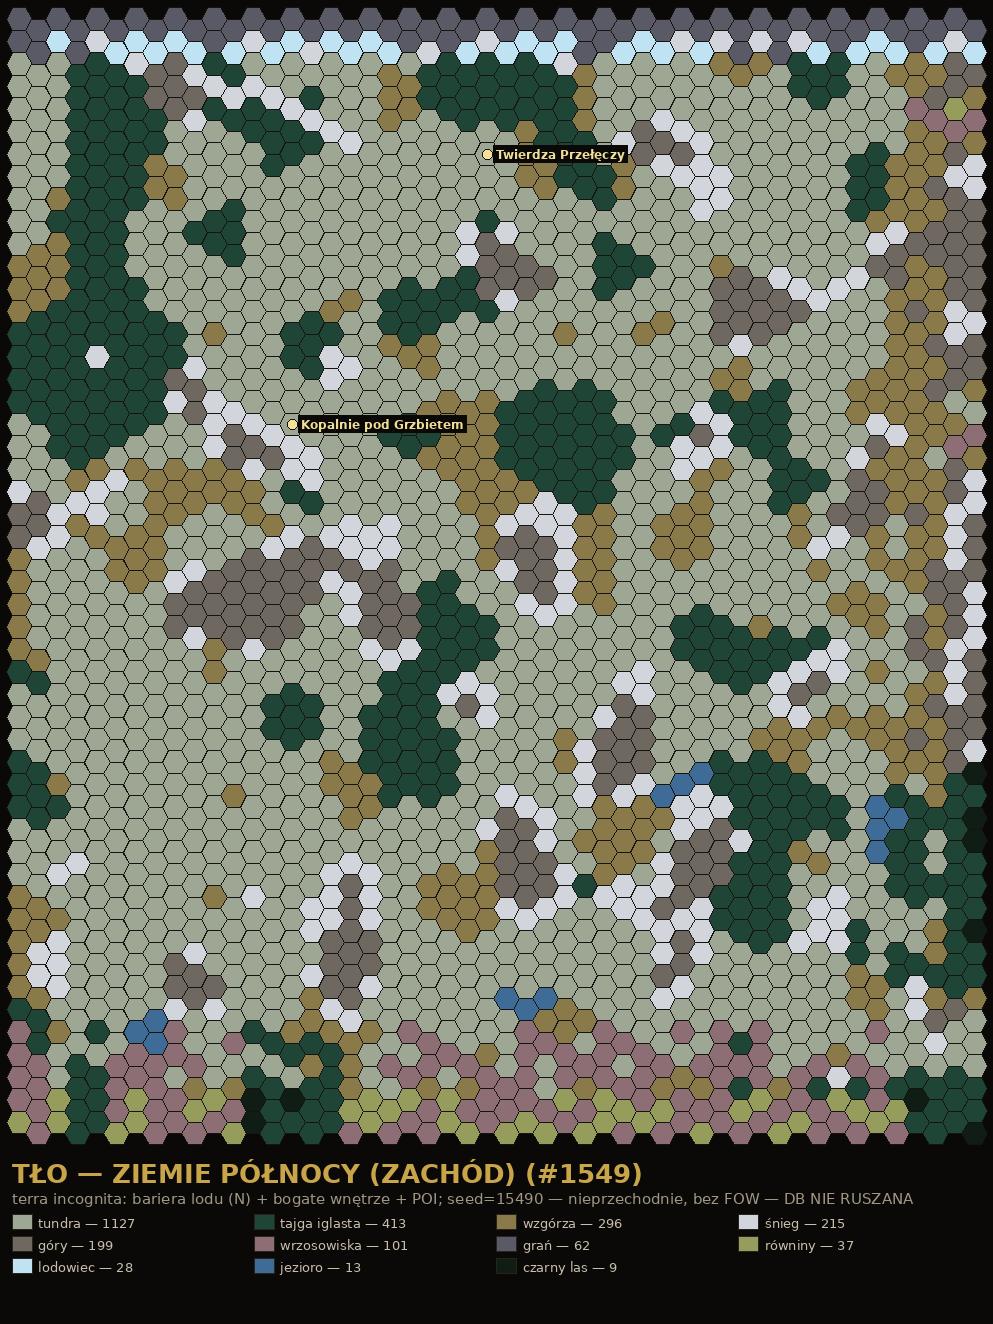
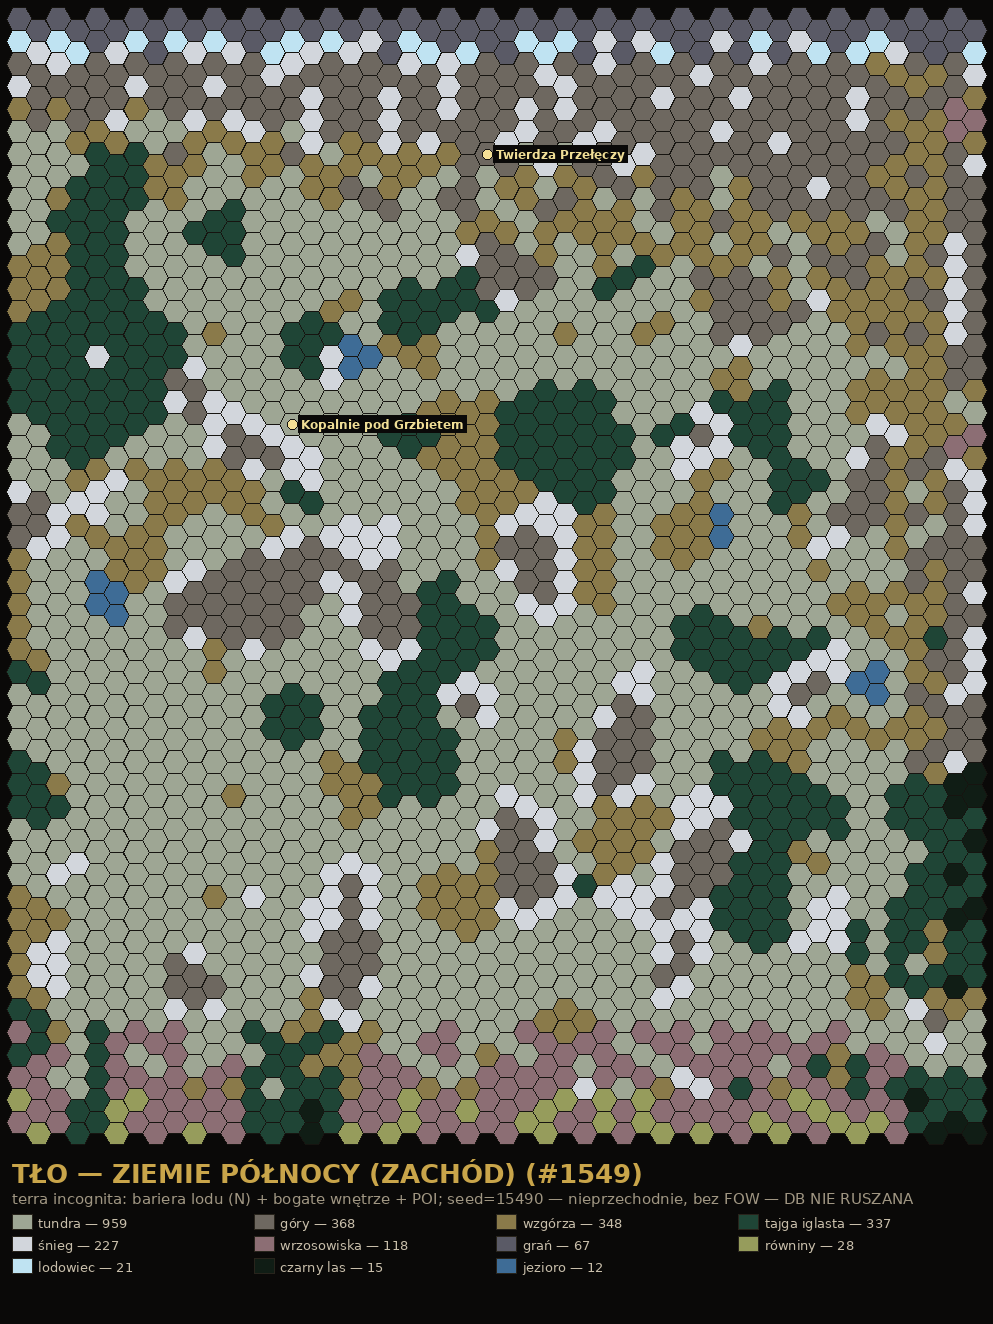
feat(map): pas gór na północy — ciągłość masywu Siwych Grań przez tła NW/NE #1549
Masyw północny Grań urywał się na pionowych szwach bloków — obok była tundra,
łańcuch nie czytał się jako jedna formacja. Nowy pass paint_north_range()
w build_region_tlo_polnoc.py: szeroki grzbiet pod barierą lodową każdego tła,
głęboki (12 rzędów) przy narożniku Grań i zwężający się (3 rzędy) ku
przeciwnej krawędzi. Rdzeń lity (mountain/snow) jak masyw Grań, dolny skraj
pogórze/tundra; dolna krawędź pasa faluje jitterem per kolumna (gładka linia,
nie szum per hex). Efekt: jeden łuk bariera NW → masyw Grań → bariera NE.

Wszystkie 5 styków nadal 0 twardych skoków. JSON-y krain commituje
auto-snapshot. Podgląd: docs/world/previews/polnoc_pas_gor.png.

diff --git a/scripts/build_region_tlo_polnoc.py b/scripts/build_region_tlo_polnoc.py
@@ -171,6 +171,36 @@ def paint_interior(hexes, local, rng):
         hexes[k]["hex_type"] = assigned.get(k, "tundra")
 
 
+def paint_north_range(hexes, local, cfg, rng):
+    """Pas gór na północy (#1549, spójność z masywem Siwych Grań).
+
+    Masyw Grań dotyka tła górną częścią krawędzi od strony SG — ale bariera
+    lodowa tła to ledwie 2 rzędy, więc łańcuch „urywał się" na szwie. Ten pas
+    maluje szeroki grzbiet pod barierą: głęboki przy narożniku Grań (zlewa się
+    z masywem), zwężający się ku przeciwnej krawędzi. Efekt: jeden ciągły łuk
+    bariera NW → masyw Grań → bariera NE."""
+    sg_east = cfg["grania_side"] == "E"     # NW: Granie na wschodzie
+    deep, shallow = 12, 3                    # głębokość pasa przy/naprzeciw Grań
+    # jitter per KOLUMNA (nie per hex) → dolna krawędź pasa faluje gładko
+    jitter = [2.0 * (rng.random() - 0.5) + 1.2 * (rng.random() - 0.5)
+              for _ in range(W)]
+    for k, (c, r) in sorted(local.items()):
+        prox = (c / (W - 1)) if sg_east else (1 - c / (W - 1))
+        depth = shallow + (deep - shallow) * prox + jitter[c]
+        band_r = r - BARRIER_ICE_ROWS
+        if band_r < 0 or band_r >= depth:
+            continue
+        if hexes[k]["hex_type"] == "lake":
+            continue
+        rel = band_r / max(depth, 1)         # 0 = pod barierą, 1 = dolny skraj
+        roll = rng.random()
+        if rel < 0.55:                       # rdzeń grzbietu — lity jak masyw Grań
+            hexes[k]["hex_type"] = "mountain" if roll < 0.75 else "snow"
+        else:                                # pogórze na dolnym skraju
+            hexes[k]["hex_type"] = "hills" if roll < 0.55 else \
+                ("mountain" if roll < 0.7 else "tundra")
+
+
 def carve_lakes(hexes, local, rng, n_lakes=N_LAKES):
     """Jeziora TYLKO z dala od gór (reguła #1545: woda nigdy obok gór)."""
     def near_mountain(k):
@@ -411,6 +441,9 @@ def main():
 
     print("[1] wnętrze: tundra-dominant + tajga/wzgórza/góry/śnieg")
     paint_interior(hexes, local, rng)
+
+    print("[1b] pas gór na północy (ciągłość z masywem Siwych Grań)")
+    paint_north_range(hexes, local, cfg, rng)
 
     print("[2] jeziora (z dala od gór — #1545)")
     lakes = carve_lakes(hexes, local, rng)
